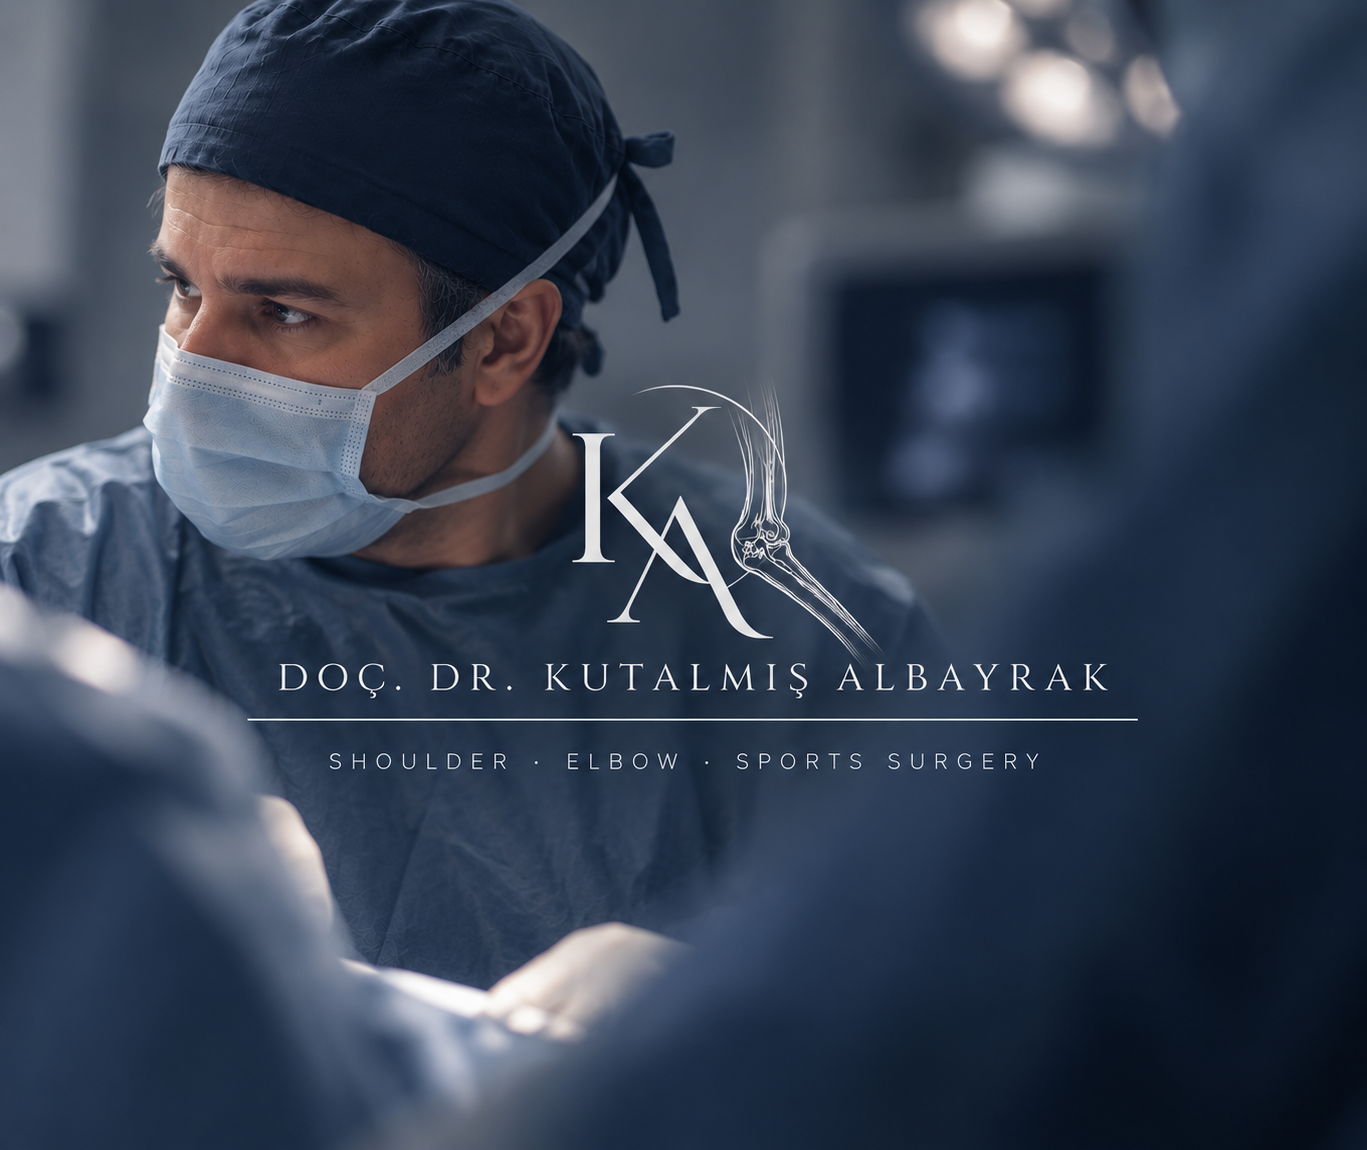
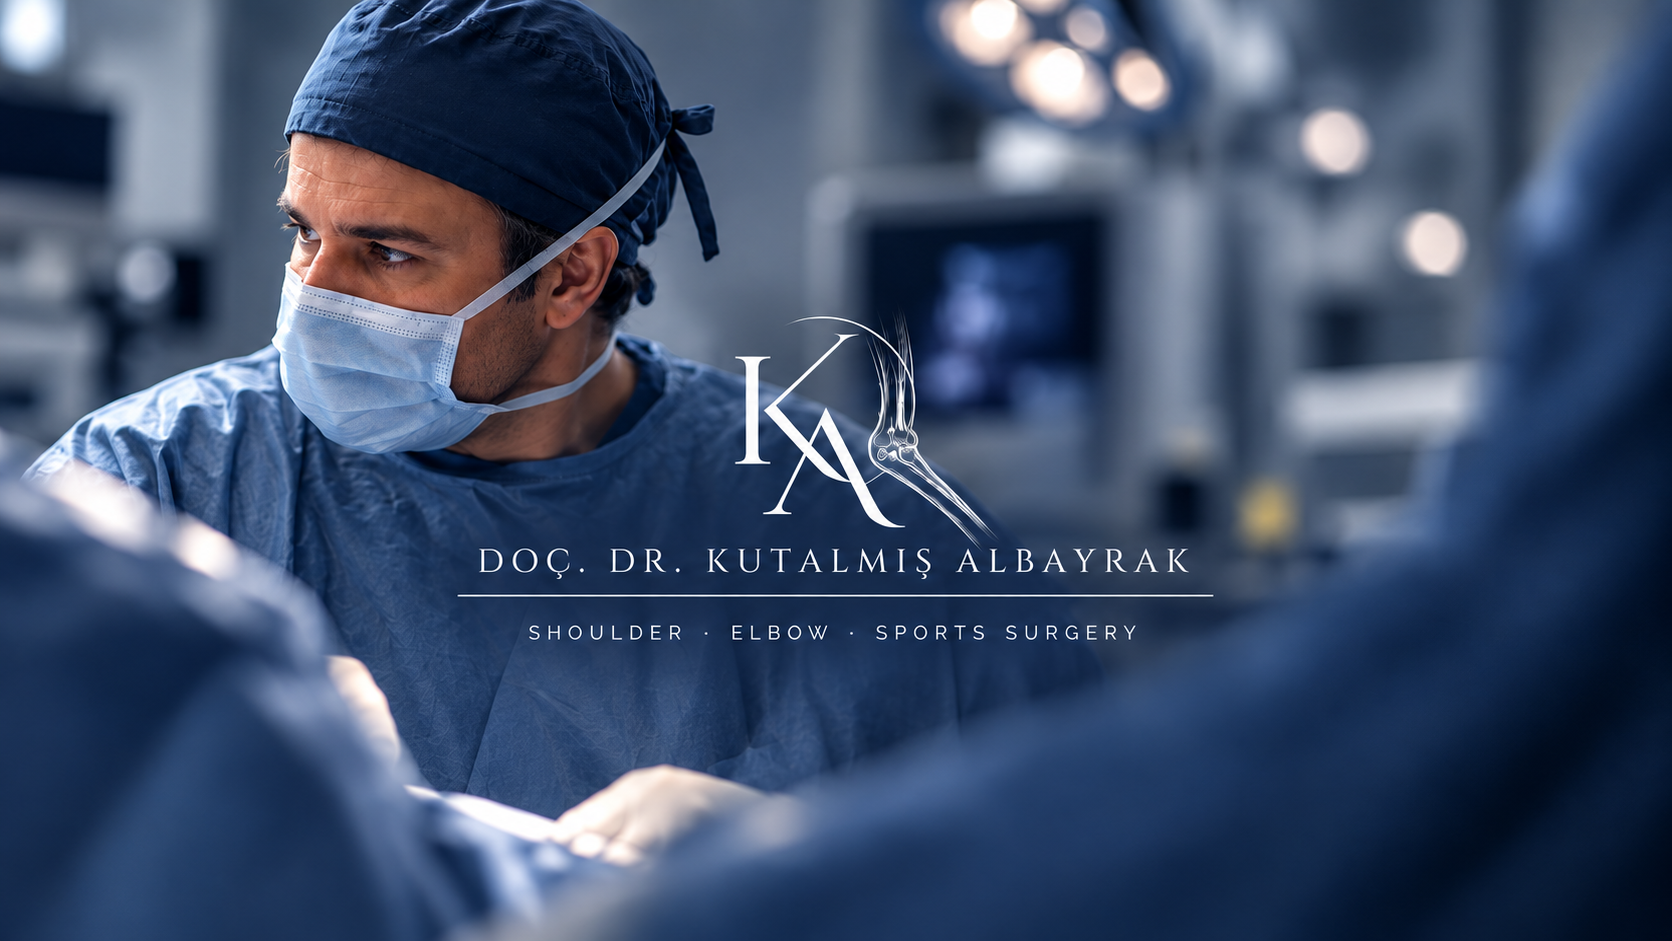
Intro'da yeni yatay görseli kullan ve ekranı boneyi kesmeden doldur

diff --git a/app/components/layout/IntroLoader.vue b/app/components/layout/IntroLoader.vue
@@ -51,8 +51,8 @@ onMounted(async () => {
       <img
         class="intro__image"
         :src="INTRO_IMAGE"
-        width="1367"
-        height="1150"
+        width="1672"
+        height="941"
         alt="Doç. Dr. Kutalmış Albayrak — Omuz, Dirsek ve Spor Cerrahisi"
         fetchpriority="high"
       />
@@ -88,28 +88,30 @@ onMounted(async () => {
   filter: blur(28px) brightness(0.75);
 }
 
-/* Görsel her ekranda kırpılmadan, tamamı görünecek şekilde sığdırılır ("contain");
-   kalan boşlukları aynı görselin bulanık kopyası tamamlar. */
+/* Görsel yüksekliği hiçbir zaman ekranı aşmaz (üstteki bone kesilmesin); genişlikte ise
+   yalnızca kenarlardaki bulanık alanlar, her yandan en fazla ~%14 kırpılabilir
+   (yüz, bone ve yazılar görselin %16–%73 aralığında kalır). Kalan boşlukları
+   aynı görselin bulanık kopyası tamamlar. */
 .intro__stage {
   position: absolute;
   top: 50%;
   left: 50%;
-  width: min(100vw, calc(100svh * 1367 / 1150));
-  aspect-ratio: 1367 / 1150;
+  width: min(calc(100svh * 1672 / 941), 139vw);
+  aspect-ratio: 1672 / 941;
   transform: translate(-50%, -50%);
 }
 
-/* Yatay ekranlarda sağ/sol kenarlar bulanık arka plana yumuşakça karışsın
-   (soldaki yüz ~%10'dan başladığı için sol geçiş dar tutuldu) */
-@media (min-aspect-ratio: 1367 / 1150) {
+/* Görselden daha geniş ekranlarda sağ/sol kenarlar bulanık arka plana yumuşakça karışsın */
+@media (min-aspect-ratio: 1672 / 941) {
   .intro__stage {
-    -webkit-mask-image: linear-gradient(to right, transparent 0, #000 6%, #000 92%, transparent 100%);
-    mask-image: linear-gradient(to right, transparent 0, #000 6%, #000 92%, transparent 100%);
+    -webkit-mask-image: linear-gradient(to right, transparent 0, #000 6%, #000 94%, transparent 100%);
+    mask-image: linear-gradient(to right, transparent 0, #000 6%, #000 94%, transparent 100%);
   }
 }
 
-/* Dikey ekranlarda üst/alt kenarlar (bone görselin en üstünde olduğu için üst geçiş dar tutuldu) */
-@media (max-aspect-ratio: 1367 / 1150) {
+/* Görsel ekran yüksekliğini dolduramadığında (telefon, kareye yakın ekranlar) üst/alt kenarlar
+   (bone görselin en üstünde olduğu için üst geçiş dar tutuldu) */
+@media (max-aspect-ratio: 23 / 18) {
   .intro__stage {
     -webkit-mask-image: linear-gradient(to bottom, transparent 0, #000 3%, #000 88%, transparent 100%);
     mask-image: linear-gradient(to bottom, transparent 0, #000 3%, #000 88%, transparent 100%);
@@ -126,9 +128,9 @@ onMounted(async () => {
    Konum/genişlik, görseldeki isim altı çizgisiyle hizalı olacak şekilde yüzde olarak verilir. */
 .intro__bar {
   position: absolute;
-  top: 69.7%;
-  left: 18.14%;
-  width: 65.1%;
+  top: 71.1%;
+  left: 27.39%;
+  width: 45.16%;
   height: 1px;
   overflow: hidden;
   background: rgba(255, 255, 255, 0.2);

diff --git a/yapildi.md b/yapildi.md
@@ -139,10 +139,10 @@ Kullanıcının "tüm içeriği doktorun kendisi yönetebilsin" isteği üzerine
 Referans sitedeki (instrosenberg.ch) açılış ekranı incelendi: `pace.js` ile tam ekran bir fotoğraf, ortada logo/yazı ve altında soldan sağa dolan 1px'lik beyaz bir çizgi; yükleme bitince ekran kararıp site açılıyor.
 
 - `app/components/layout/IntroLoader.vue` eklendi ve `app/layouts/default.vue` içine konuldu (admin paneli `blank` layout kullandığı için orada görünmez).
-- Görsel: kullanıcının eklediği `public/images/intro.png` (fotoğraf + KA logosu + isim + çizgi) netlik kaybı olmasın diye sıkıştırılmadan, doğrudan PNG olarak kullanılıyor (JPG sıkıştırması ince beyaz yazılarda bulanıklık yapıyordu).
+- Görsel: kullanıcının eklediği yatay intro görseli ("Intro Kuto", 1672×941, fotoğraf + KA logosu + isim + çizgi) `public/images/intro.png` olarak, netlik kaybı olmasın diye sıkıştırılmadan kullanılıyor (JPG sıkıştırması ince beyaz yazılarda bulanıklık yapıyordu).
 - "SHOULDER · ELBOW · SPORTS SURGERY" yazısının altında, görseldeki isim altı çizgisiyle aynı genişlikte bir bar ~3 saniyede doluyor; ardından intro 0,7 sn'de kararıp kayboluyor. Süre `MIN_DURATION` sabitinden ayarlanır.
 - Süre, sayfa isteğinin başından değil barın ekranda dolmaya başladığı andan sayılır (CSS animasyonunun bitişi beklenir); böylece sayfa geç açılsa bile intro kısa kesilmez.
-- Görsel her ekranda kırpılmadan tamamı görünecek şekilde sığdırılır (önceki "ekranı doldur" yaklaşımı masaüstünde bonenin kesilmesine yol açıyordu); kalan boşlukları aynı görselin bulanık kopyası yumuşak geçişle tamamlar. Bar konumu görsel piksel ölçülerek (çizgi y=719, x=248–1137) hizalandı.
+- Görselin yüksekliği ekranı hiçbir zaman aşmaz (üstteki bone kesilmesin); genişlikte yalnızca kenarlardaki bulanık alanlar her yandan en fazla ~%14 kırpılabilir. Böylece 16:10, 5:4 gibi ekranlar tamamen dolar; daha geniş/dar ekranlarda kalan boşlukları aynı görselin bulanık kopyası yumuşak geçişle tamamlar. Bar konumu görsel piksel ölçülerek (çizgi y=595, x=458–1212) hizalandı.
 - Güvenlik ağları: sayfa en geç 6 sn içinde yüklenmezse intro yine kapanır; JS hiç çalışmazsa CSS ile 8 sn sonra kendiliğinden kaybolur. Intro açıkken sayfa kaydırılamaz.
 
 ## 13. Supabase duraklatma sorunu ve günlük "canlı tutma" isteği
